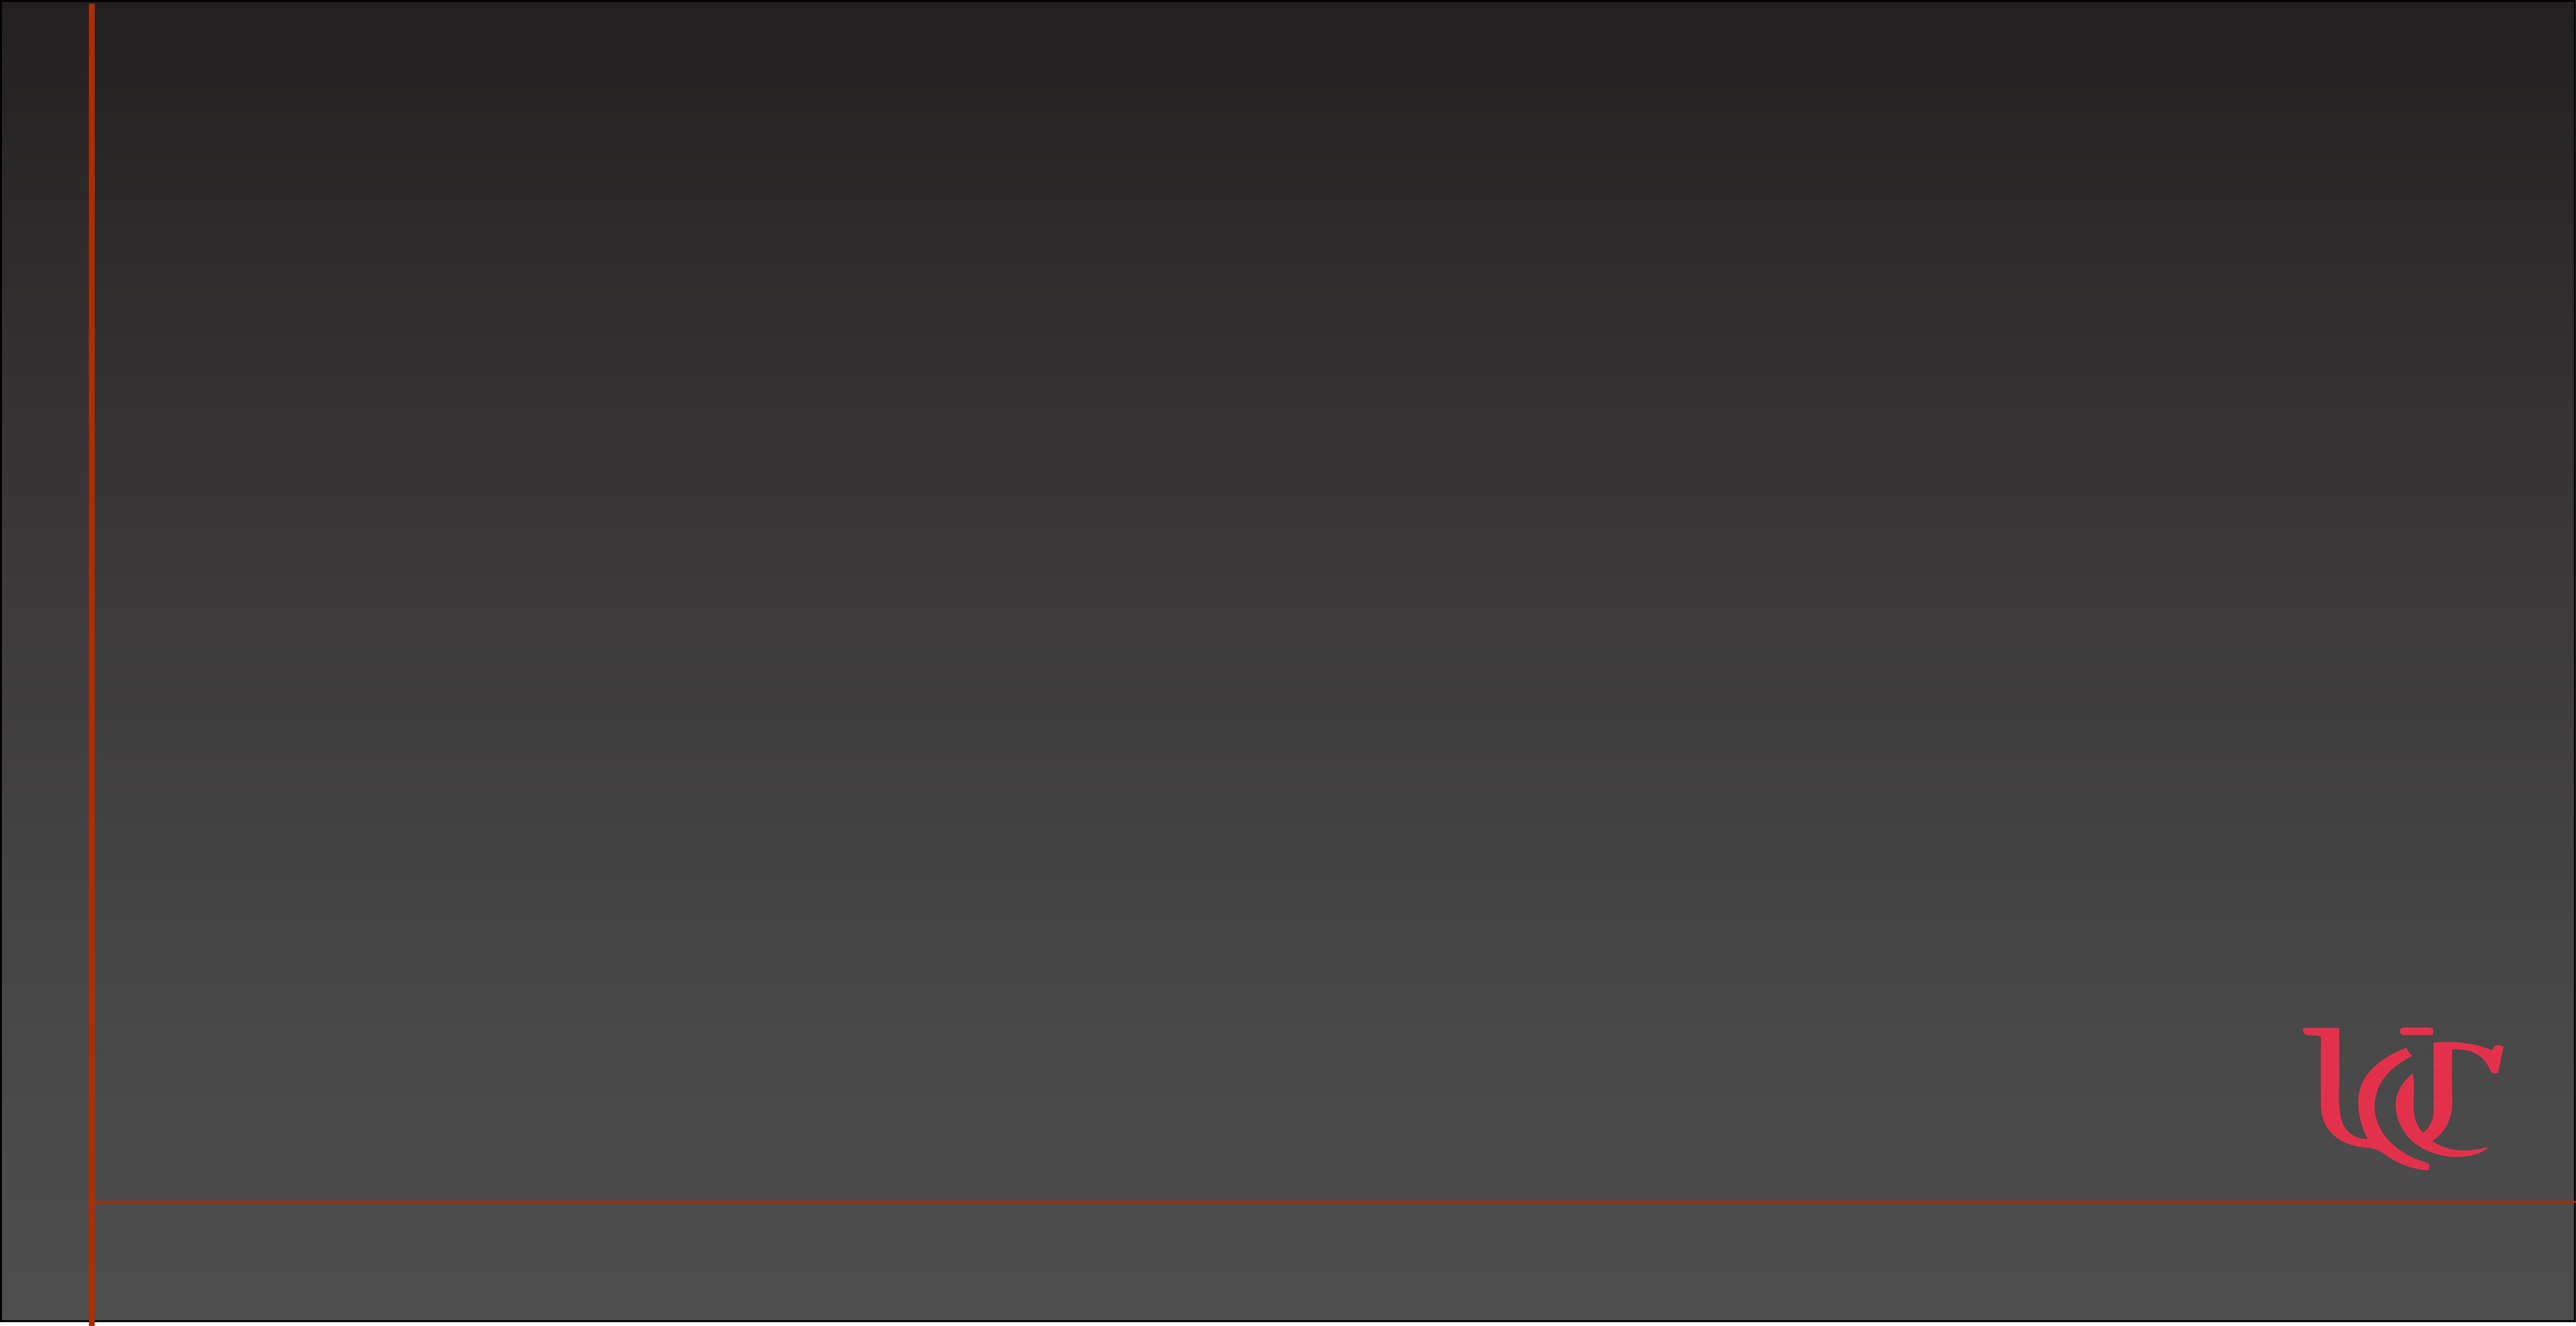
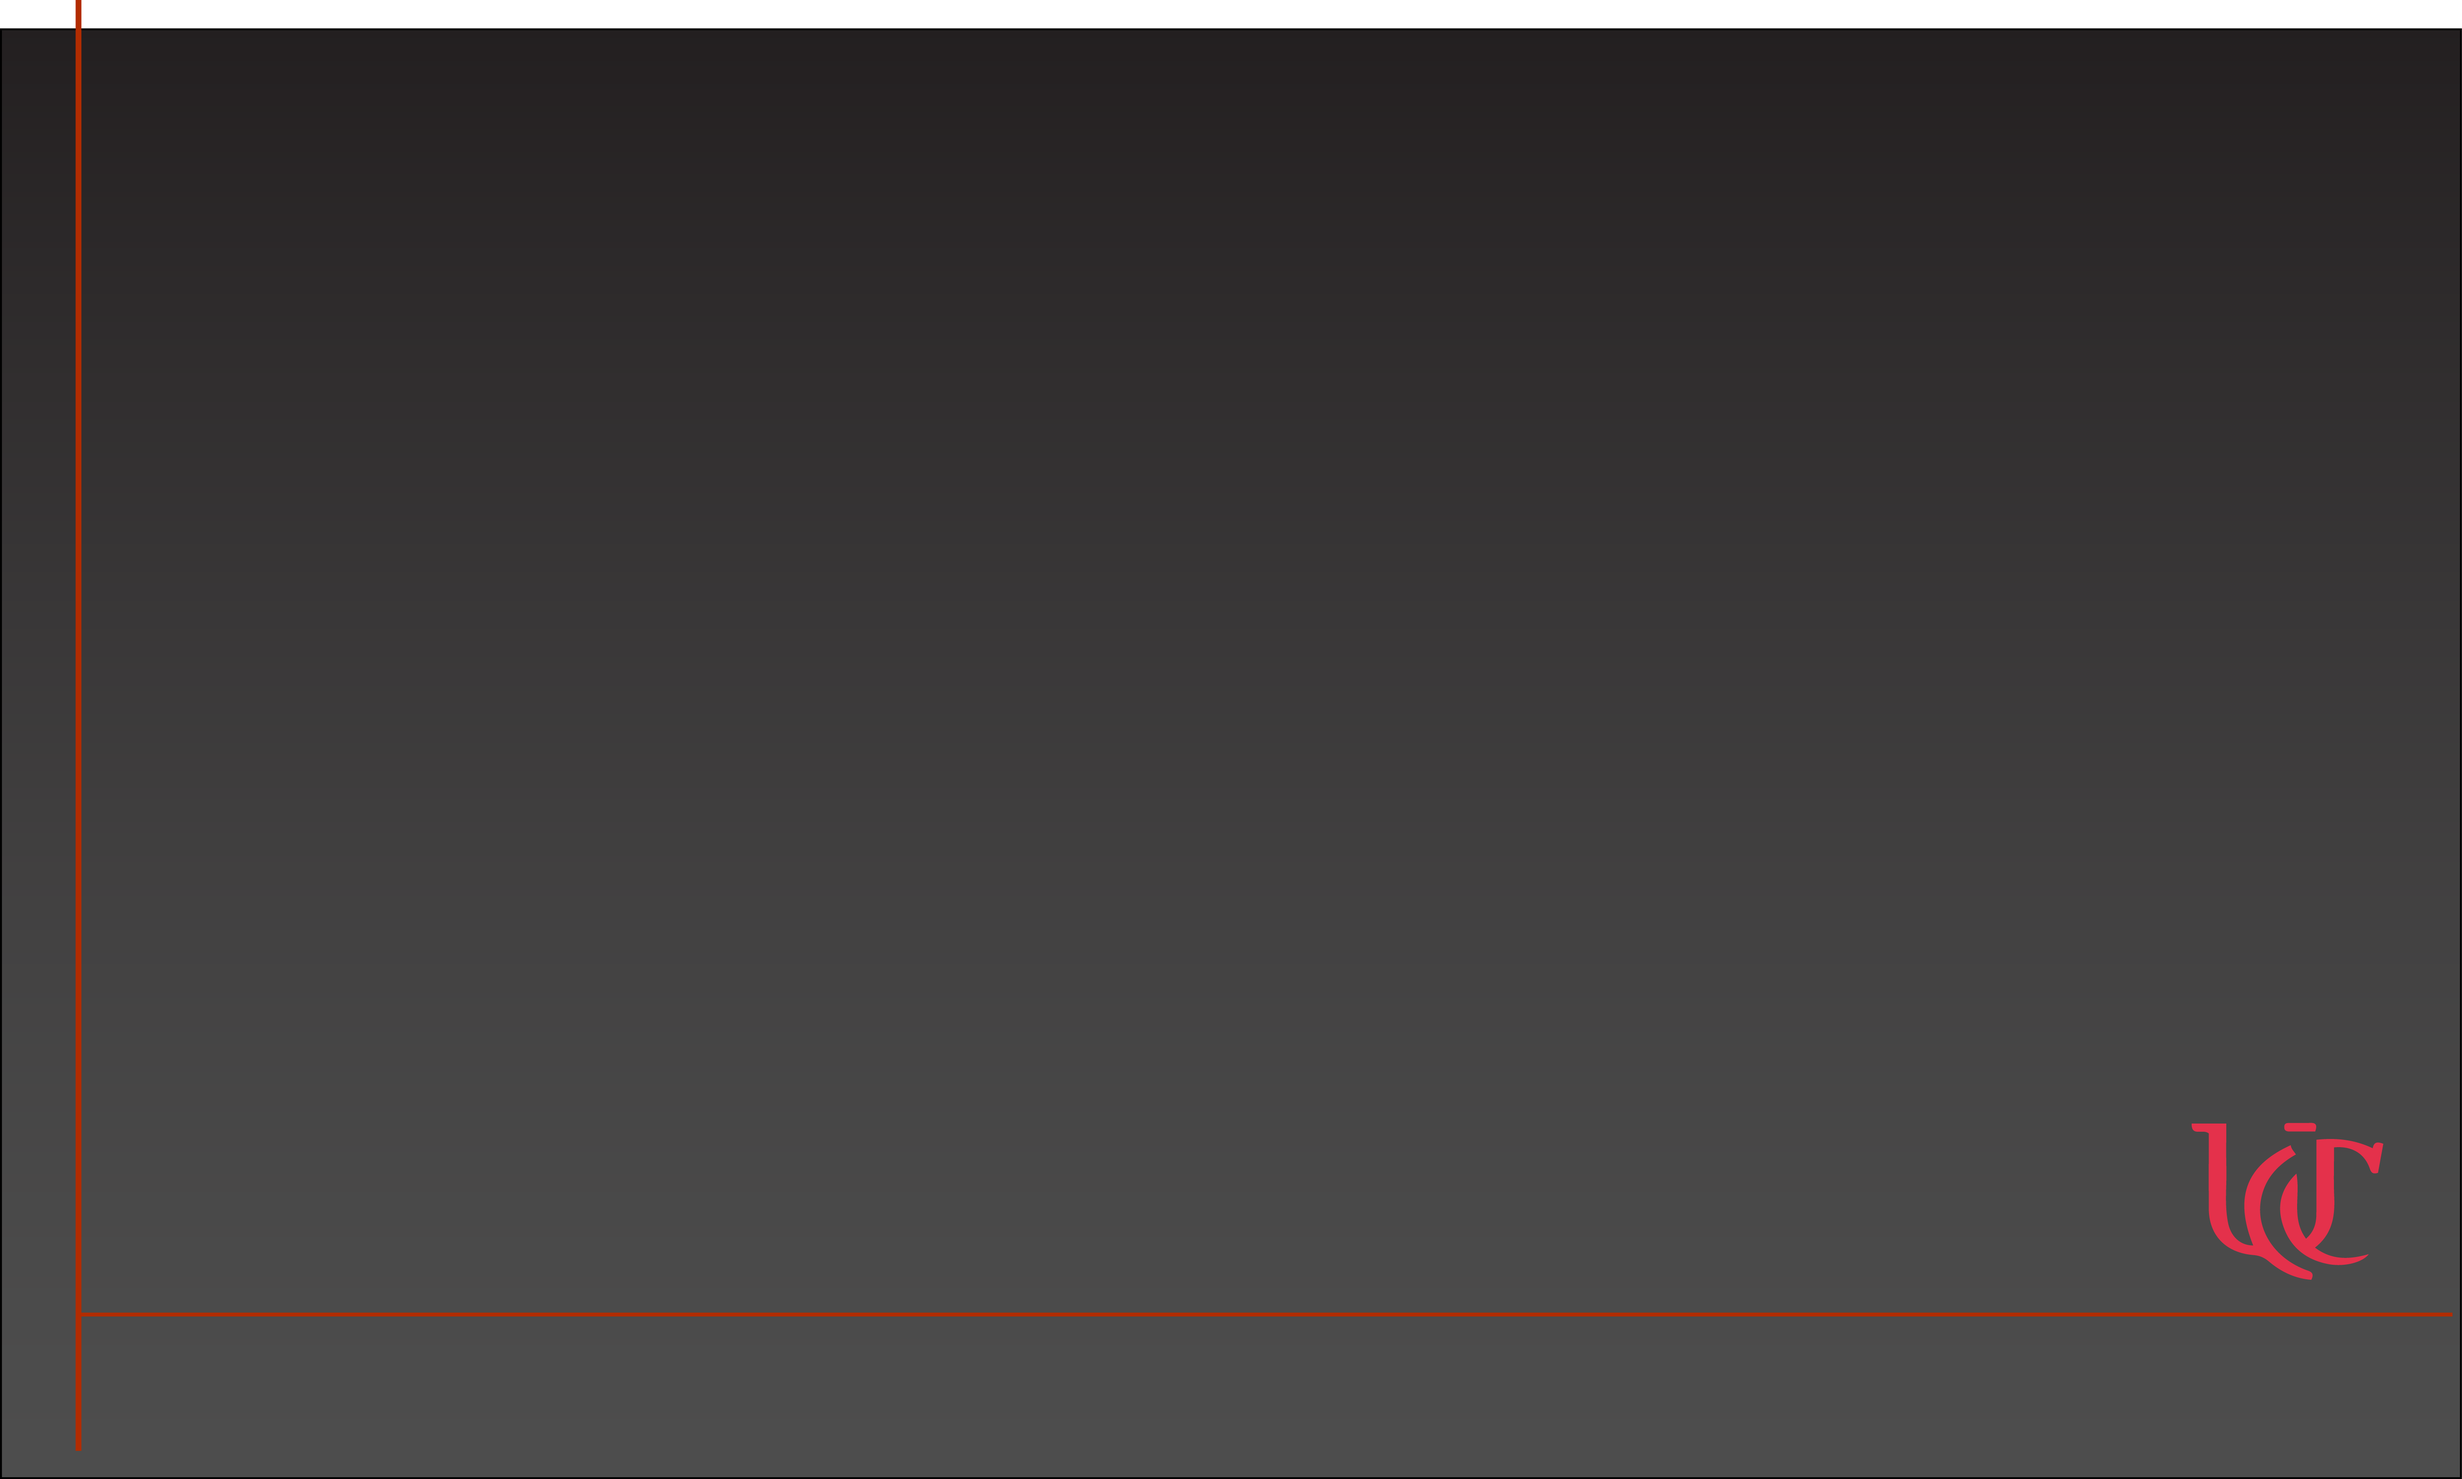
Test layout

Changed region(s): [[0.0, 0.0, 1.0, 1.0], [0.8729, 0.7477, 0.9664, 0.9035]]

diff --git a/static/js/main.js b/static/js/main.js
@@ -21,16 +21,22 @@ function launchFullScreen(element) {
   // Launch fullscreen for browsers that support it!
 launchFullScreen(document.documentElement); // the whole page
 
-
+/*
+ background: url(images/bg.jpg) no-repeat center center fixed;
+  -webkit-background-size: cover;
+  -moz-background-size: cover;
+  -o-background-size: cover;
+  background-size: cover;
+  */
 $(function(){
-$('body').css(
-    {backgroundImage : 'url(/media/background2.png)',
-        backgroundSize : 'cover',
-        backgroundRepeat: 'no-repeat'
-
-    }
-
-);
+//$('body').css(
+//    {backgroundImage : 'url(/media/background2.png)',
+//        backgroundSize : 'cover',
+//        backgroundRepeat: 'no-repeat'
+//
+//    }
+//
+//);
 });
     $.ajax({
             type: "GET",

diff --git a/static/css/main.css b/static/css/main.css
@@ -16,6 +16,13 @@
     /*background-color: yellow;*/
     /*box-shadow: 10px 10px 5px #888888;*/
 /*}*/
+    body{
+        background: url(/media/background2.png) no-repeat center center fixed;
+  -webkit-background-size: cover;
+  -moz-background-size: cover;
+  -o-background-size: cover;
+  background-size: cover;
+    }
 .container{
     width: 100%;
 }
